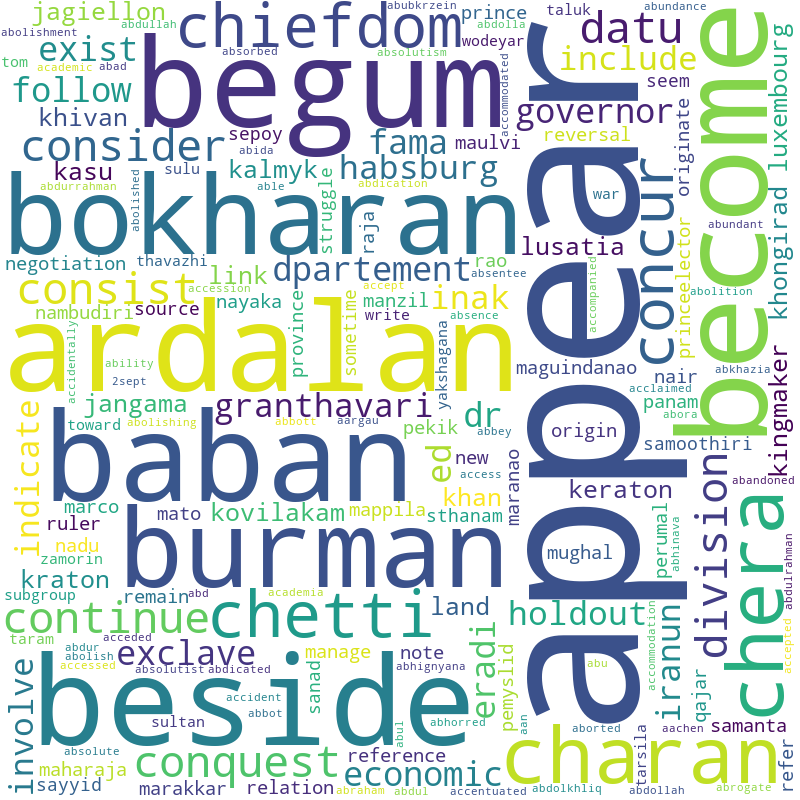
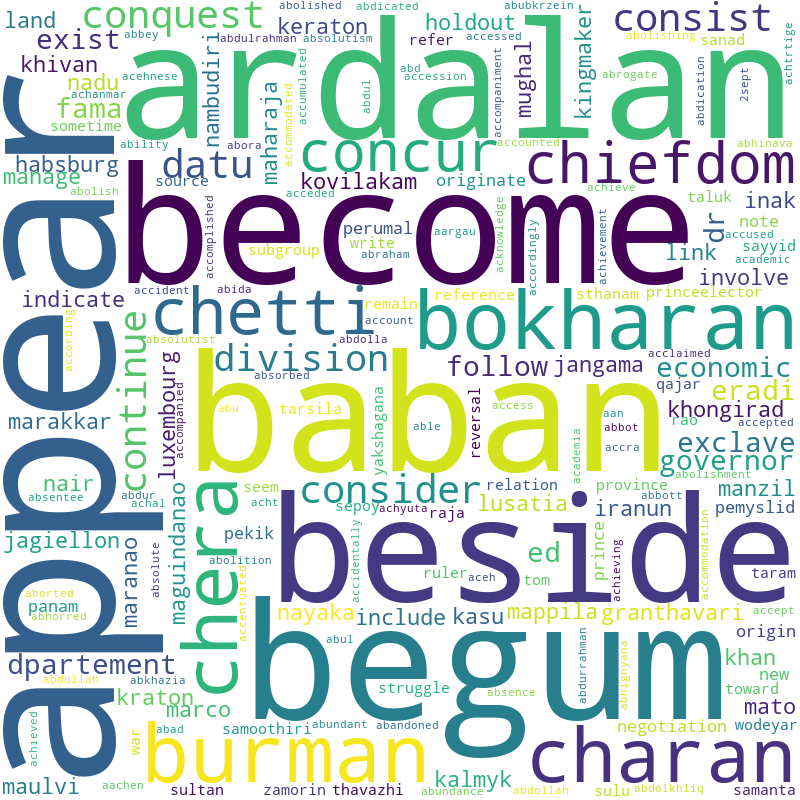
move analysis into pipeline
writing all output to /output_path

diff --git a/src/stage_corpus_analysis.py b/src/stage_corpus_analysis.py
@@ -14,6 +14,17 @@ import numpy as np
 import string
 from nltk.corpus import stopwords
 import sidetable
+import nltk
+from nltk.corpus import stopwords
+from scipy import stats
+from wordcloud import WordCloud
+import matplotlib.pyplot as plt
+import seaborn as sns
+
+from collections import deque
+from statistics import mean
+from statistics import pstdev
+from copy import copy
 
 class CorpusAnalysisStage(BaseStage):
     """Stage for analyzing corpus.
@@ -49,6 +60,9 @@ class CorpusAnalysisStage(BaseStage):
         corpus_file_path = join(constants.TMP_PATH,
                                 "{}.{}".format(self.parent.topic, self.corpus_file))
 
+        output_file_path = join(constants.OUTPUT_PATH,
+                                "{}.{}".format(self.parent.topic, self.corpus_file))
+
         with open(corpus_file_path, "r") as file:
             text = file.read()
 
@@ -75,12 +89,15 @@ class CorpusAnalysisStage(BaseStage):
                 return x.translate(str.maketrans('', '', string.punctuation))
 
         df['text_strp_punct'] = df['text_strp_unicode'].apply(lambda x: text_strip(x))
+        df_corpus = df[['text_strp_punct']].copy()
 
         try:
-            df.to_csv('analysis/text_processing.csv', index=False)
+            analysis_type = '1_cleaning_summary.csv'
+            filename = str(output_file_path[:-3] + analysis_type)
+            df.to_csv(filename, index=False)
+
         except:
-            self.logger.info("Created Text Processing File but did not write to disk")
-            self.logger.info("Create folder /analysis and run again")
+            self.logger.info("Created Summary File 1 but did not write to disk")
 
         df['text_strp_punct'].replace('', np.nan, inplace=True)
 
@@ -90,17 +107,19 @@ class CorpusAnalysisStage(BaseStage):
 
         df['text_strp_punct'] = df['text_strp_punct'].astype('string')
 
+
         self.logger.info('Stripped Punctuation but not <<article_start>> or other tags')
 
         df.rename(columns={'text_strp_punct': 'text'}, inplace=True)
         df.reset_index(drop=True, inplace=True)
 
-        summary_1 = df.stb.freq(['text'])
+        summary_2 = df.stb.freq(['text'])
         try:
-            summary_1.to_csv('analysis/1_raw_summary.csv', index=False)
+            analysis_type = '2_raw_text_summary.csv'
+            filename = str(output_file_path[:-3] + analysis_type)
+            summary_2.to_csv(filename, index=False)
         except:
-            self.logger.info("Created Text Summary 1 File but did not write to disk")
-            self.logger.info("Create folder /analysis and run again")
+            self.logger.info("Created Text Summary 2 File but did not write to disk")
 
         df['stop_flag'] = df[['text']].isin(stopwords.words('english')).any(1)
 
@@ -108,29 +127,134 @@ class CorpusAnalysisStage(BaseStage):
 
         stops = stops[stops['stop_flag'] == True].reset_index(drop=True)
         stops.drop(columns='stop_flag', inplace=True)
-        summary_2 = stops.stb.freq(['text'])
+        summary_3 = stops.stb.freq(['text'])
 
         self.logger.info('Flagged and Removed Stop Words')
 
         try:
-            summary_2.to_csv('analysis/2_stops_summary.csv', index=False)
-        except:
-            self.logger.info("Created Summary 2 File but did not write to disk")
-            self.logger.info("Create folder /analysis and run again")
-
-        summary_3 = df[df['stop_flag'] == False].reset_index(drop=True).drop(columns='stop_flag')
-        summary_3 = summary_3.stb.freq(['text'])
-        try:
-            summary_3.to_csv('analysis/3_text_summary.csv', index=False)
+            analysis_type = '3_stop_text_summary.csv'
+            filename = str(output_file_path[:-3] + analysis_type)
+            summary_3.to_csv(filename, index=False)
         except:
             self.logger.info("Created Summary 3 File but did not write to disk")
-            self.logger.info("Create folder /analysis and run again")
+
+        summary_4 = df[df['stop_flag'] == False].reset_index(drop=True).drop(columns='stop_flag')
+        summary_4 = summary_4.stb.freq(['text'])
+        try:
+            analysis_type = '4_cleaned_text_summary.csv'
+            filename = str(output_file_path[:-3] + analysis_type)
+            summary_4.to_csv(filename, index=False)
+        except:
+            self.logger.info("Created Summary 4 File but did not write to disk")
 
         try:
-            df.to_csv('analysis/text_analysis.csv', index=False)
-            df.to_pickle('analysis/text_analysis.pickle', protocol=2)
+            analysis_type = '5_cleaned_text.csv'
+            filename = str(output_file_path[:-3] + analysis_type)
+            df.to_csv(filename, index=False)
+
+            analysis_type = '5_cleaned_text.pickle'
+            filename = str(output_file_path[:-3] + analysis_type)
+            df.to_pickle(filename, protocol=2)
         except:
             self.logger.info("Created Summary Text Analysis File but did not write to disk")
-            self.logger.info("Create folder /analysis and run again")
+
+
+        stats_dict = {}
+
+        unique_words = len(df['text'].unique())
+        stats_dict.update({"unique_words_bf_stop":unique_words})
+
+        df = df[df['stop_flag'] == False].reset_index(drop=True).drop(columns='stop_flag')
+        unique_words = len(df['text'].unique())
+        stats_dict.update({"unique_words_af_stop": unique_words})
+
+        frequency = df.stb.freq(['text'])
+
+        try:
+            analysis_type = '6_text_frequency_t10.csv'
+            filename = str(output_file_path[:-3] + analysis_type)
+            frequency[:10].to_csv(filename, index=False)
+
+        except:
+            self.logger.info("Created Summary Text Analysis File but did not write to disk")
+
+        df = df.groupby(['text'])['text'].agg('count').reset_index(name='count')
+
+        df['text_length'] = df['text'].str.len()
+
+        df = df[df['text_length'] < 30].reset_index(drop=True)
+
+        unique_words = len(df['text'].unique())
+        stats_dict.update({"unique_words_af_freq": unique_words})
+
+        df['text_length_z_score'] = np.abs(stats.zscore(df['text_length']))
+
+        word_cloud_words = ' '.join(df['text'].values)
+
+        wordcloud = WordCloud(width=800, height=800,
+                              background_color='white',
+                              min_font_size=10).generate(word_cloud_words)
+
+        plt.figure(figsize=(8, 8), facecolor=None)
+        plt.imshow(wordcloud)
+        plt.axis("off")
+        plt.tight_layout(pad=0)
+        plt.title('A Word Cloud of Subject Matter Universal Corpus')
+
+        analysis_type = 'word_cloud.png'
+        filename = str(output_file_path[:-3] + analysis_type)
+        plt.savefig(filename)
+
+        plt.figure()
+        df['z_score_bin'] = pd.qcut(df['text_length_z_score'], 3).reset_index(drop=True)
+        ax = sns.displot(data=df
+                         , x='text_length'
+                         , y='count'
+                         , hue='z_score_bin'
+                         )
+
+        plt.ylabel('Word Count')
+        plt.xlabel('Word Character Length')
+        plt.title('Frequency Distribution of Corpus\n Organized by Corpus Word Count and Word Text Length')
+        plt.tight_layout()
+        analysis_type = 'word_frequency.png'
+        filename = str(output_file_path[:-3] + analysis_type)
+        plt.savefig(filename)
+
+        corpus_text = deque(df_corpus['text_strp_punct'].values)
+
+        corpus_dict = {}
+        counter = 0
+        accu = []
+
+        while corpus_text:
+            start_marker = ['<<article_start>>']
+            curr = corpus_text.popleft()
+
+            if any(m in curr for m in start_marker):
+                if accu:
+                    counter += 1
+                    corpus_dict.update({counter: (accu)})
+                accu = []
+                accu.append(curr)
+                curr = corpus_text.popleft()
+
+            if accu:
+                accu.append(curr)
+
+        stats_dict.update({"total_articles": len(corpus_dict)})
+
+        article_lengths = [len(value) for key, value in corpus_dict.items()]
+
+        stats_dict.update({"article_max_len": max(article_lengths)})
+        stats_dict.update({"article_min_len": min(article_lengths)})
+        stats_dict.update({"article_mean_len": mean(article_lengths)})
+        stats_dict.update({"article_stdv_len": pstdev(article_lengths)})
+
+        self.logger.info(stats_dict)
+
+        # uncomment below to make coprus into sparse numpy arr
+        # arr = df.to_numpy()
+
 
         return True

diff --git a/src/q4_analysis.py b/src/q4_analysis.py
@@ -15,129 +15,3 @@ from wordcloud import WordCloud
 from collections import deque
 from statistics import mean
 from statistics import pstdev
-
-df = pd.read_pickle('../analysis/text_analysis.pickle')
-
-unique_words = len(df['text'].unique())
-# print(unique_words)
-
-
-df = df[df['stop_flag']==False].reset_index(drop=True).drop(columns='stop_flag')
-
-unique_words = len(df['text'].unique())
-# print(unique_words)
-
-frequency = df.stb.freq(['text'])
-
-frequency[:10].to_csv('../analysis/top_ten.csv')
-
-df = df.groupby(['text'])['text'].agg('count').reset_index(name='count')
-
-df['text_length'] = df['text'].str.len()
-
-df = df[df['text_length'] < 15].reset_index(drop=True)
-
-unique_words = len(df['text'].unique())
-# print(unique_words)
-
-df['text_length_z_score'] = np.abs(stats.zscore(df['text_length']))
-
-word_cloud_words = ' '.join(df['text'].values)
-# print(word_cloud_words)
-
-wordcloud = WordCloud(width = 800, height = 800,
-                background_color ='white',
-                min_font_size = 10).generate(word_cloud_words)
-
-plt.figure(figsize=(8, 8), facecolor=None)
-plt.imshow(wordcloud)
-plt.axis("off")
-plt.tight_layout(pad=0)
-plt.title('A Word Cloud of Subject Matter Universal Corpus')
-plt.savefig('../analysis/word_cloud.png')
-# plt.show()
-
-plt.figure()
-
-counts = df.sort_values(by=['count'], ascending=False).reset_index(drop=True)
-
-print('after count', counts['count'].sum())
-
-counts = counts[:5]
-
-df['z_score_bin'] = pd.qcut(df['text_length_z_score'], 3).reset_index(drop=True)
-
-ax = sns.displot(data=df
-            ,x='text_length'
-            ,y='count'
-            ,hue='z_score_bin'
-            )
-
-top = counts[['text', 'count']].values
-
-plt.ylabel('Word Count')
-plt.xlabel('Word Character Length')
-plt.title('Frequency Distribution of Corpus\n Organized by Corpus Word Count and Word Text Length')
-plt.tight_layout()
-plt.savefig('../analysis/q4_fig1.png')
-# plt.show()
-
-df = pd.read_csv('../analysis/text_processing.csv')
-
-df = df.dropna()
-
-corpus_text = deque(df['text_strp_punct'].values)
-
-# def corpus_splitter(x):
-#     curr = x[0]
-#     rest = x[1:]
-#     markers = ['<<', '>>']
-#     if any(m in curr for m in markers):
-#         print(curr)
-#
-#     return corpus_splitter(rest)
-#
-# corpus_splitter(corpus_text)
-
-corpus_dict = {}
-counter = 0
-# ['<<article_start>>', 'something', 'something', '<<article_end>>']
-accu = []
-
-while corpus_text:
-    start_marker = ['<<article_start>>']
-    curr = corpus_text.popleft()
-
-
-    if any(m in curr for m in start_marker):
-        if accu:
-            counter += 1
-            # print(counter, accu)
-            corpus_dict.update({counter:(accu)})
-        accu = []
-        accu.append(curr)
-        curr = corpus_text.popleft()
-
-    if accu:
-        accu.append(curr)
-
-
-print('Total Articles', len(corpus_dict))
-
-article_lengths = [len(value) for key, value in corpus_dict.items()]
-
-print('Max Article Length',max(article_lengths))
-print('Min Article Length',min(article_lengths))
-print('Average Article Length',mean(article_lengths))
-print('Standard Deviation in Article Length',pstdev(article_lengths))
-
-# print(corpus_dict)
-
-df = pd.DataFrame.from_dict(corpus_dict, orient='index')
-df = df.fillna(np.nan)
-
-print(df)
-
-arr = df.to_numpy()
-
-
